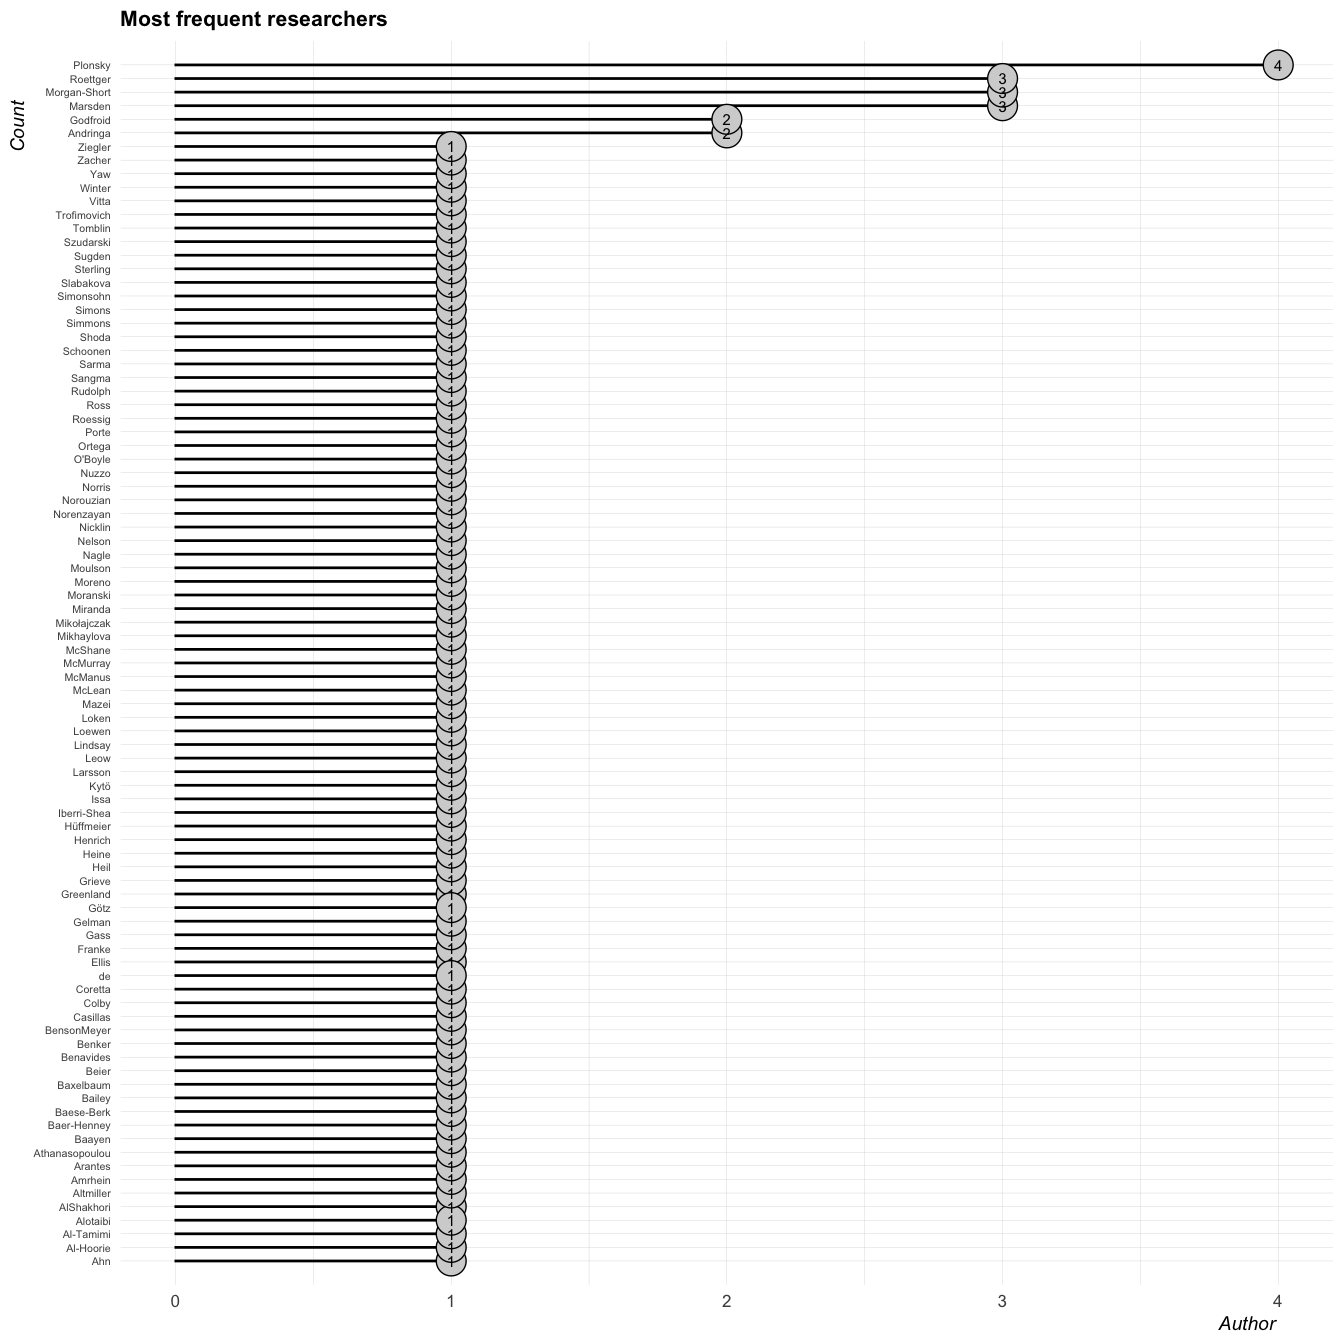
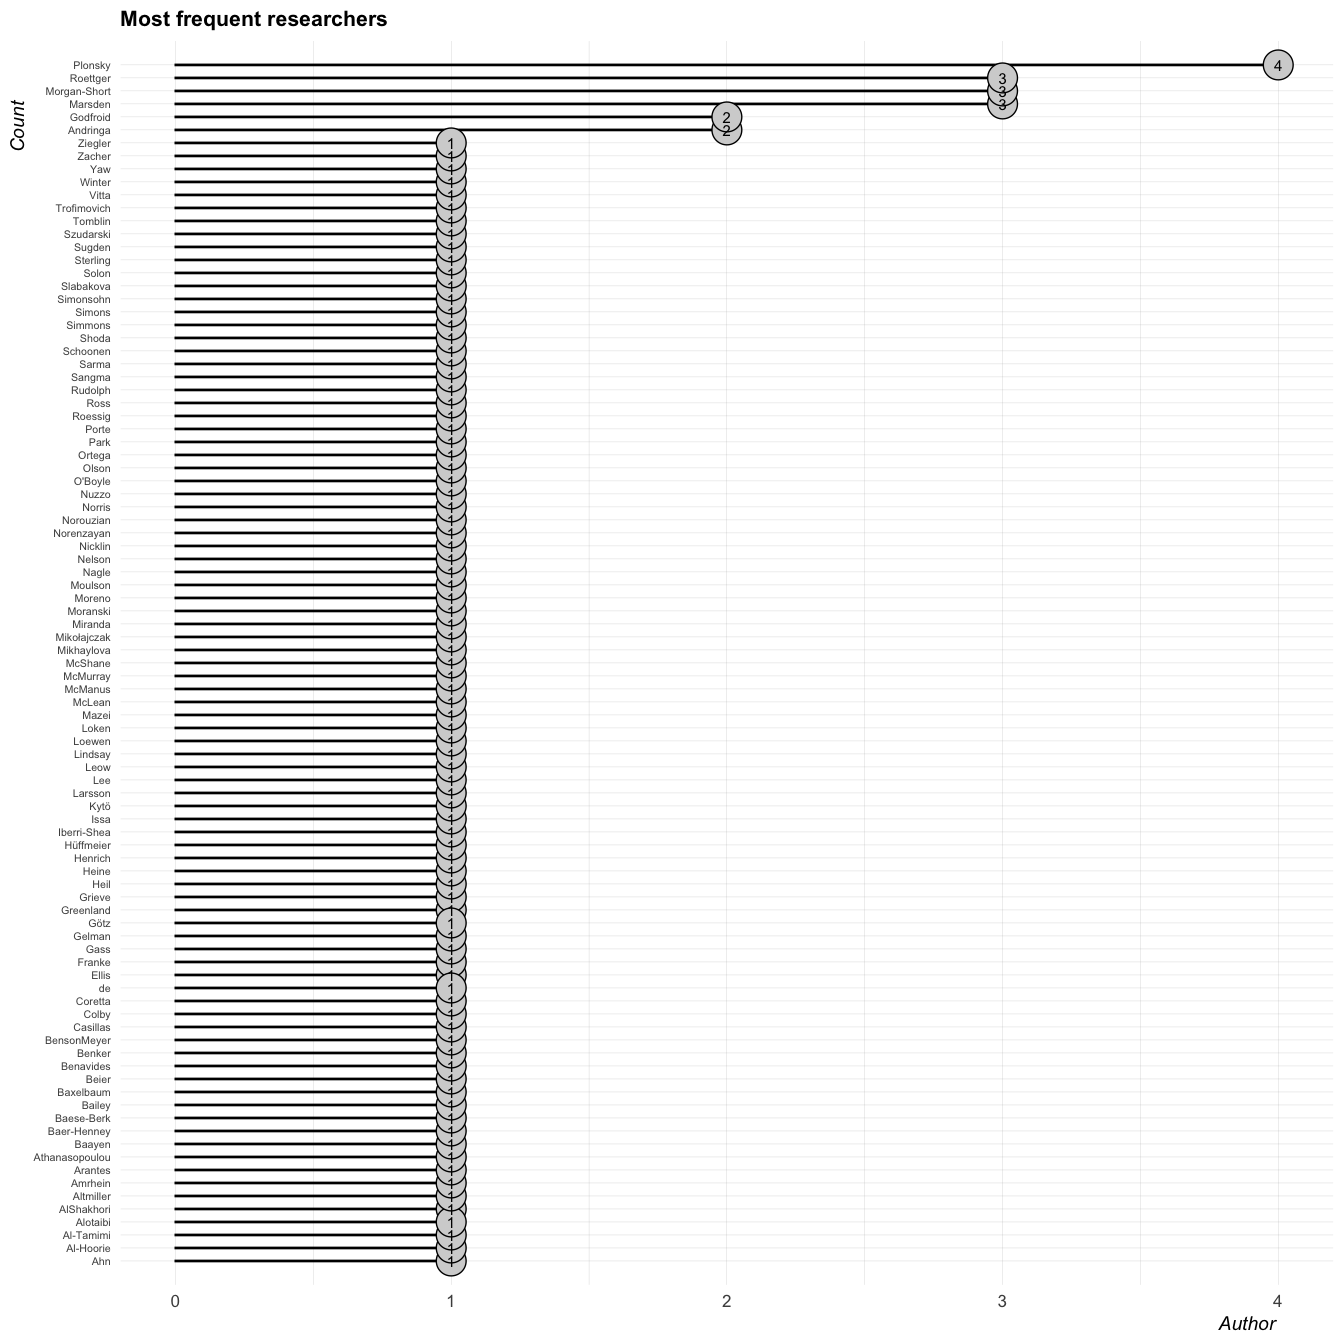
ch2 adds

Changed region(s): [[0.125, 0.0625, 0.75, 0.9375], [0.0312, 0.2812, 0.0938, 0.9375], [0.0312, 0.0625, 0.0938, 0.25]]

diff --git a/README.md b/README.md
@@ -35,7 +35,7 @@ Amrhein, Valentin, Sander Greenland, and Blake McShane. 2019.
 
 </div>
 
-<div id="ref-Andringa2020SamplingBias" class="csl-entry">
+<div id="ref-andringa-2020" class="csl-entry">
 
 Andringa, Sible, and Aline Godfroid. 2020. “Sampling Bias and the
 Problem of Generalizability in Applied Linguistics.” *Annual Review of
@@ -99,7 +99,7 @@ Linguistics.” *Linguistics* 59 (5): 1343–56.
 
 </div>
 
-<div id="ref-Henrich2010WEIRD" class="csl-entry">
+<div id="ref-henrich-2010" class="csl-entry">
 
 Henrich, Joseph, Steven J. Heine, and Ara Norenzayan. 2010. “The
 Weirdest People in the World?” *Behavioral and Brain Sciences* 33 (2-3):
@@ -194,6 +194,13 @@ Nuzzo, Regina. 2014. “Scientific Method: Statistical Errors.” *Nature*
 
 </div>
 
+<div id="ref-olson-2024" class="csl-entry">
+
+Olson, Daniel J. 2024. “Bilingual Language Dominance and Code-Switching
+Patterns.” *Heritage Language Journal* 21 (1): 1–29.
+
+</div>
+
 <div id="ref-ortega-2005" class="csl-entry">
 
 Ortega, Lourdes, and Gina Iberri-Shea. 2005. “Longitudinal Research in
@@ -201,6 +208,16 @@ Second Language Acquisition: Recent Trends and Future Directions.”
 *Annual Review of Applied Linguistics* 25: 26–45.
 [https://doi.org/10.1017/S0267190505000024
 ](https://doi.org/10.1017/S0267190505000024 ).
+
+</div>
+
+<div id="ref-park_Solon_Lee-2025" class="csl-entry">
+
+Park, Hae In, Megan Solon, and Kwangmin Lee. 2025. “Understanding
+Proficiency Assessment Practices in SLA Research: Insights from
+Researcher Beliefs and Practices.” *Studies in Second Language
+Acquisition* 47 (5): 1205–29.
+<https://doi.org/10.1017/S0272263125101058>.
 
 </div>
 
@@ -261,7 +278,7 @@ Papers.” *Perspectives on Psychological Science* 12 (6): 1123–28.
 
 </div>
 
-<div id="ref-Sugden2015Recruitment" class="csl-entry">
+<div id="ref-sugden-2015" class="csl-entry">
 
 Sugden, Nicholas A., and Margaret C. Moulson. 2015. “Recruitment
 Strategies Should Not Be Randomly Selected.” *Frontiers in Psychology*
